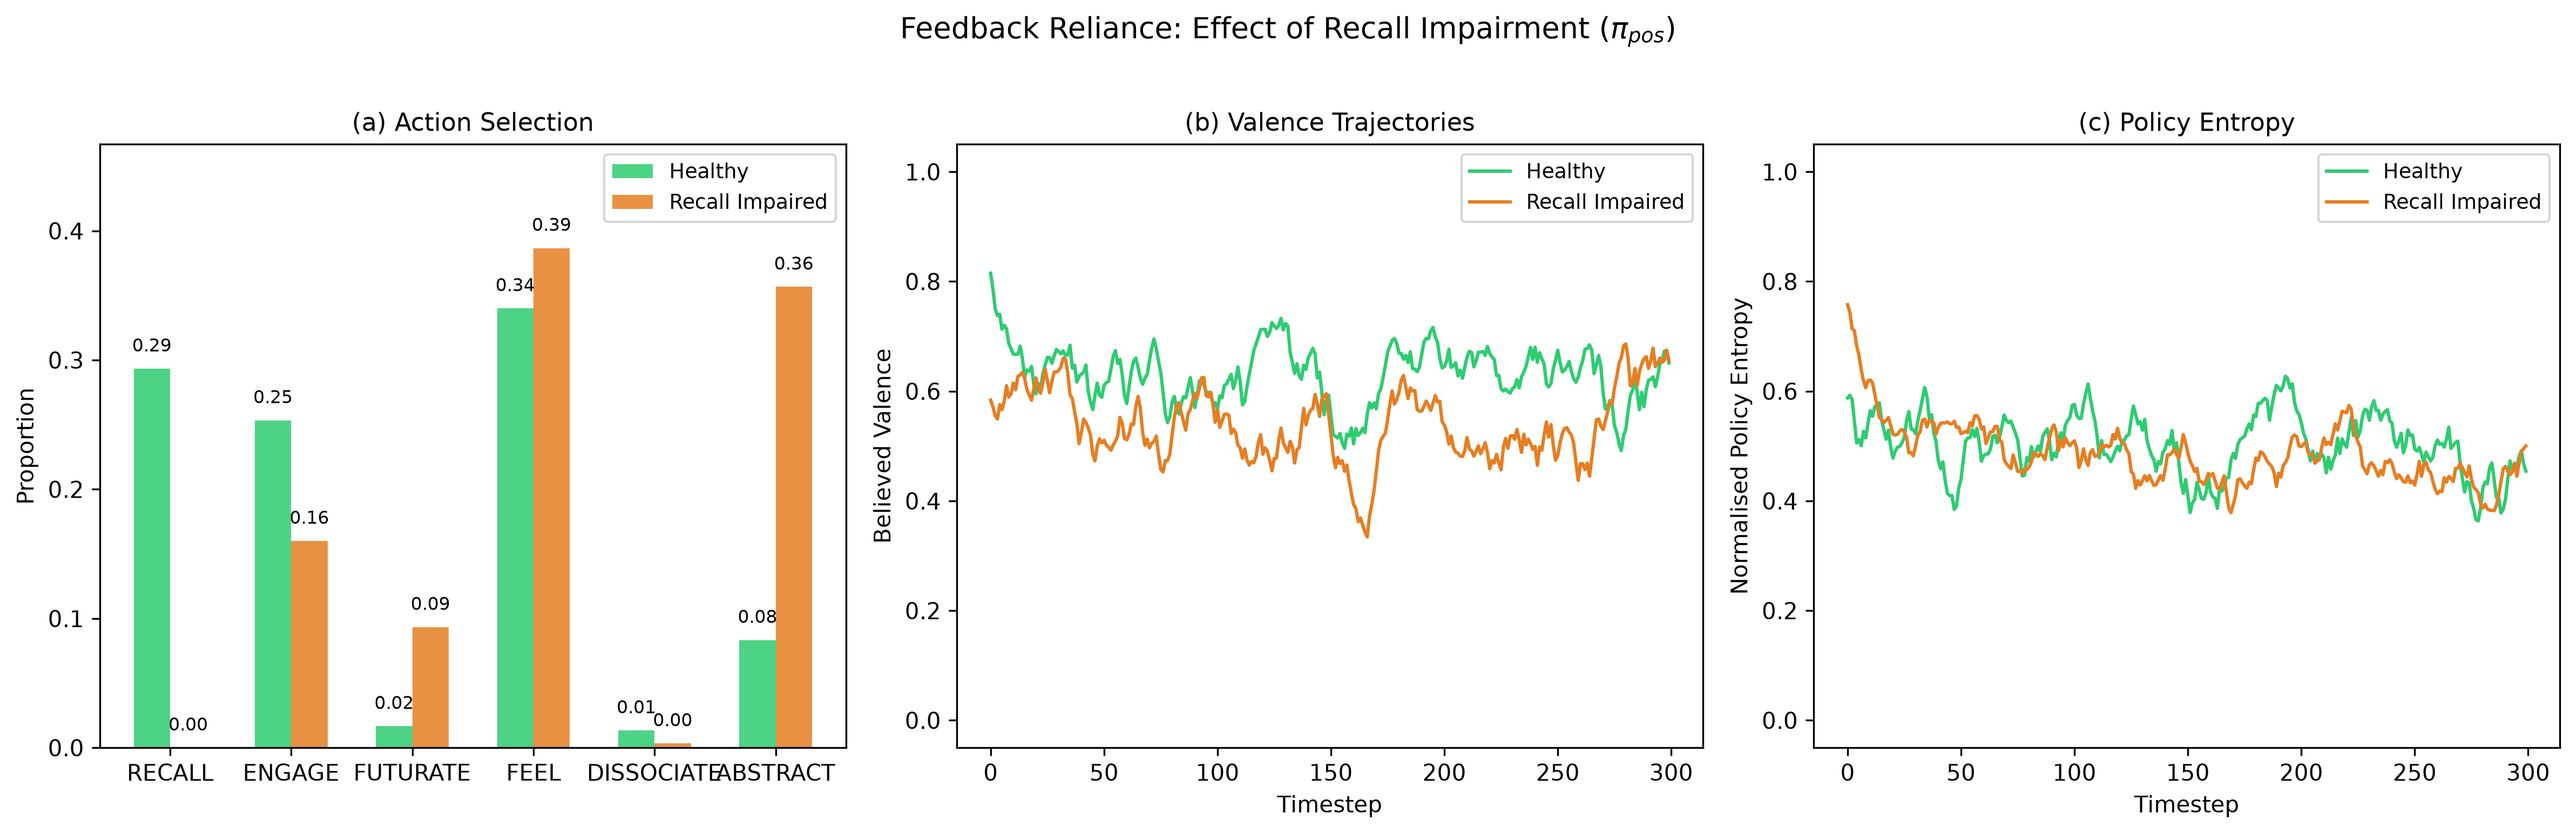
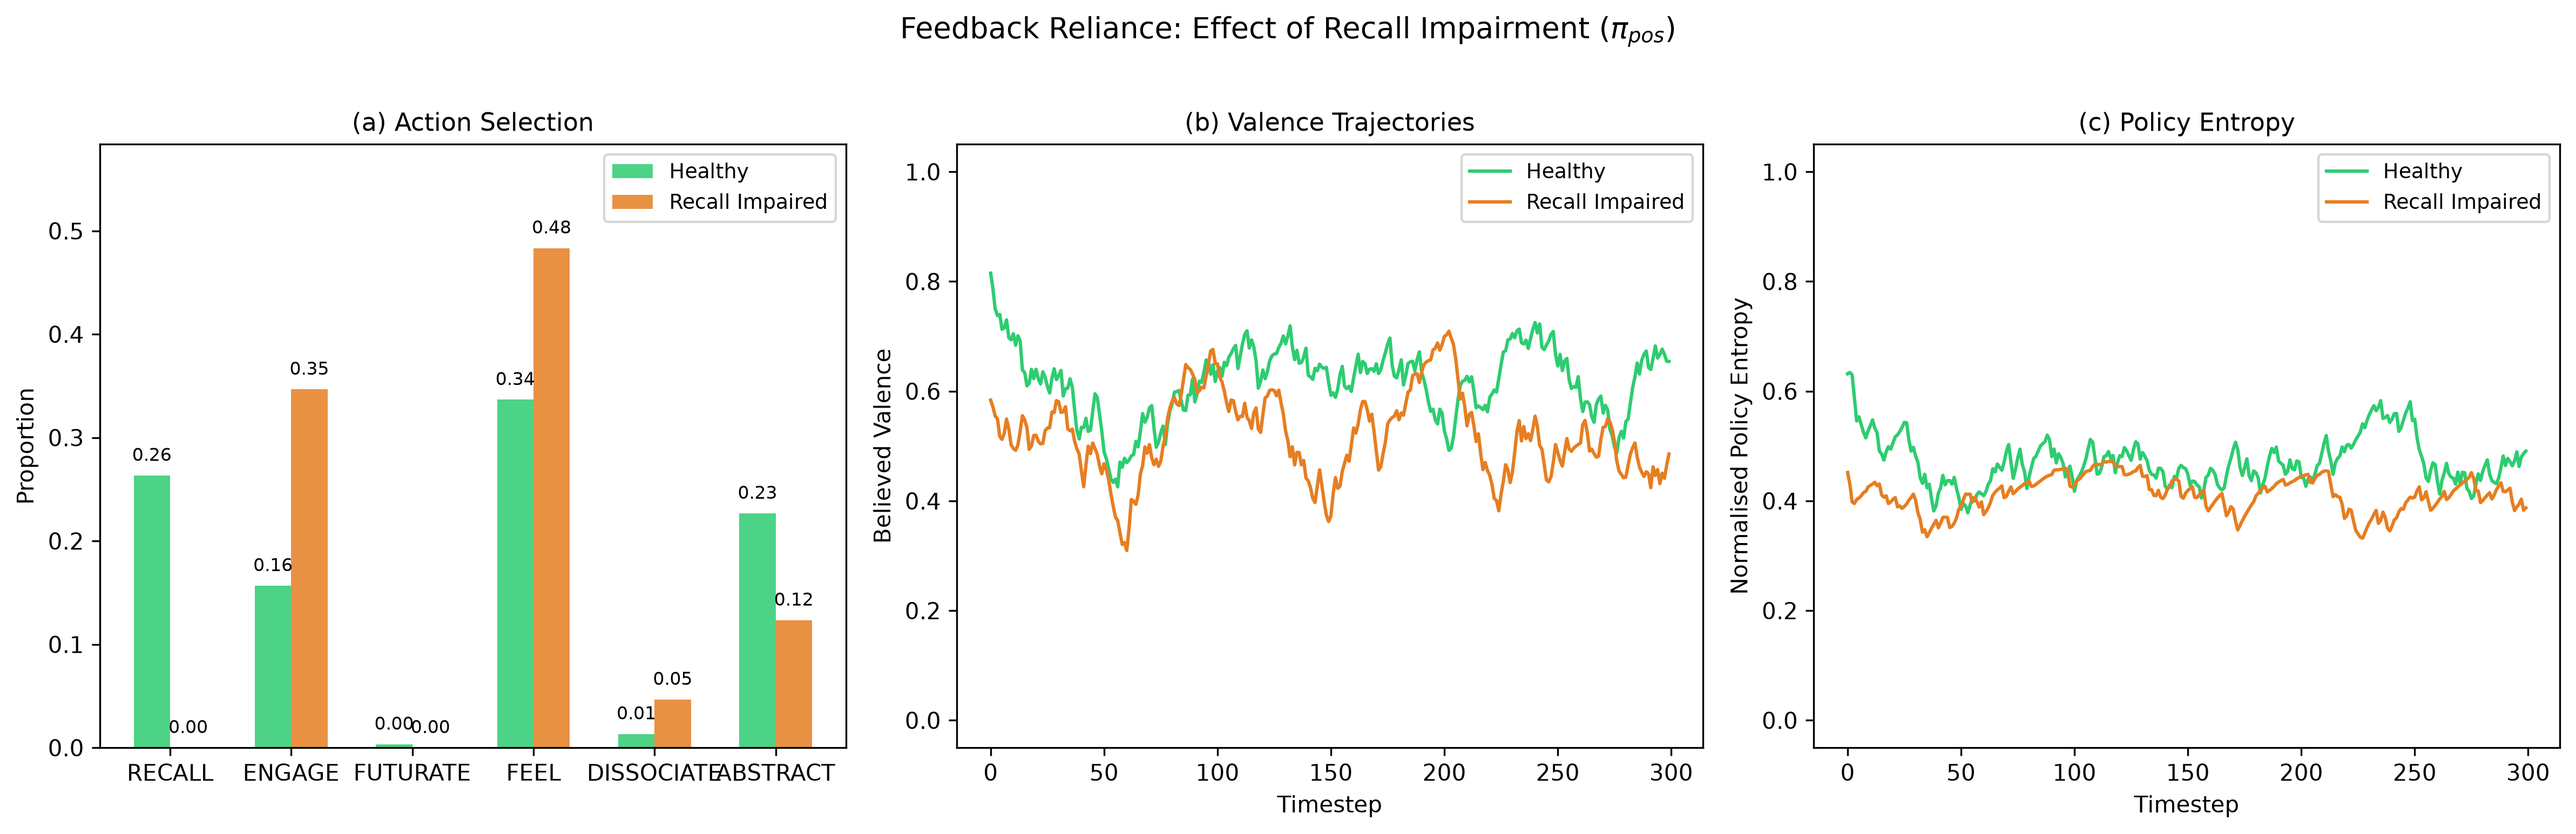
Propagate frame-gating revision to paper + regenerate all figures
Model change (precision-gated FUTURATE/ABSTRACT) merged; full propagation:
- Rewrote ESM ablation: multi-step no longer leans on persistence (model's own
  forward dynamics carry it; Geschwind h2 0.29 / osf h2 0.34 with zero inertia).
- Added direct temporal-orientation test (Mulholland 2023, n=101): RECALL/
  rumination branch validated (past->negative valence, r=-0.23 within-person);
  future-optimism default not supported (motivated the gating change); frame
  inversion fails (coupling not recovery). New references entry + datasets row.
- Softened worry r=0.166 to a coupling (not orientation recovery) claim.
- Updated FUTURATE description, clinical numbers (RECALL 29->26%, chronic-stress
  frame beliefs), ESM table + figure to the revised model's held-out values.
- Regenerated all simulation figures + fig_model_advantage; EMPIRICAL_RECORD updated.
- Compiles clean: 23 pp, 0 undefined cites, 0 bibtex warnings.

diff --git a/affective_valence_temporal_framing_unified.tex b/affective_valence_temporal_framing_unified.tex
@@ -309,8 +309,11 @@ $\pi_{\text{pos}}$ a negative one (rumination). It is the computational realisat
 \item[ENGAGE] assigns $75\%$ to \textsc{present}, maintaining precision on current
 sensory input through perception--action coupling.
 \item[FUTURATE] assigns $90\%$ to \textsc{future} (narrative inertia); $\mathbf
-B_v^{\textsc{futurate}}$ pulls valence toward the solution state, imagining the best
-outcome. Its energy cost brakes it into short reactive planning bursts.
+B_v^{\textsc{futurate}}$ pulls valence toward a \emph{precision-gated} target
+$v_{\text{fut}}=0.2+0.6\alpha$, symmetric with RECALL, so high positive-belief
+precision yields hopeful prospection and low precision yields anxious, worry-type
+prospection rather than fixed optimism. Its energy cost brakes it into short reactive
+planning bursts.
 \item[FEEL] releases frame commitment ($50$--$60\%$ present) and models active
 interoceptive processing, reducing accumulated prediction error through body-state
 monitoring \citep{stephan2016allostatic}.
@@ -484,7 +487,7 @@ constrained by feedback. When $\pi_{\text{pos}}$ is low, RECALL fails at two cou
 levels: the mechanism itself is impaired ($\alpha\!\approx\!0.14$, barely pulling
 toward the prior) and its deployment is suppressed (it becomes EFE-uncompetitive).
 Figure~\ref{fig:feedback} contrasts a healthy and a recall-impaired agent differing
-only in $\pi_{\text{pos}}$: RECALL utilisation collapses from $29\%$ to $<1\%$, with
+only in $\pi_{\text{pos}}$: RECALL utilisation collapses from $26\%$ to $<1\%$, with
 compensatory ABSTRACT, FEEL, ENGAGE, and FUTURATE. This is the computational form of
 overgeneral memory \citep{williams2007autobiographical}: cognition migrates to
 representations that are abstract without being self-congruent.
@@ -505,7 +508,7 @@ monotonic in healthy/high-sensitivity profiles.}
 \centering
 \includegraphics[width=\textwidth]{figures/fig10_feedback_reliance.png}
 \caption{\textbf{Feedback reliance under recall impairment.} Profiles share all
-parameters except $\pi_{\text{pos}}$ (5.0 vs 0.2). (a) RECALL drops from $29\%$ to
+parameters except $\pi_{\text{pos}}$ (5.0 vs 0.2). (a) RECALL drops from $26\%$ to
 $<1\%$, with compensatory ABSTRACT/FEEL/ENGAGE/FUTURATE. (b) Valence trajectories
 lower under impairment. (c) Policy entropy: the impaired agent is less decisive.}
 \label{fig:feedback}
@@ -516,8 +519,8 @@ Chronic stress realises the double bind of \S\ref{sec:regulator}. Affect turns
 negative but construal stays coarse, so neither pathway to policy selection delivers.
 A stressed profile (very high volatility, amplified reward sensitivity, stress-impaired
 interoception, reduced $\pi_{\text{pos}}$) shows future-dominated fixation, dominant
-\textsc{future} frame belief ($0.77$ vs $0.25$ healthy), depleted \textsc{present}
-($0.17$ vs $0.50$), FUTURATE dominance, and strongly negative reward valence from
+\textsc{future} frame belief ($0.66$ vs $0.32$ healthy), depleted \textsc{present}
+($0.25$ vs $0.46$), FUTURATE dominance, and strongly negative reward valence from
 \emph{frustrated forward projection}: FUTURATE creates precise positive predictions
 that a volatile world falsifies (Figure~\ref{fig:stress}). At the mood timescale, the
 M5 layer turns this into an attractor. Two agents with identical healthy initial
@@ -591,6 +594,7 @@ Dataset & $N$ & Signals & Access & Supports \\
 Rutledge GBE happiness \citep{rutledge2014} & 47{,}067 (14{,}803) & gamble choices; momentary happiness & CC0 (Dryad) & subsumption / affect readout \\
 Geschwind--Bringmann ESM \citep{bringmann2013,geschwind2011} & 130 (129) & momentary affect; event pleasantness; worry & CC BY-NC & affect-dynamics; frame-to-worry \\
 Reliability ESM (\texttt{osf.io/83cfk}) & 91 & momentary affect (12 emotion sliders) & open (OSF) & affect-dynamics replication \\
+Temporal-orientation ESM \citep{mulholland2023} & 101 & per-probe past/future thought; valence & CC BY-NC & direct frame-to-affect coupling \\
 Sugawara \& Katahira (complete feedback) & 143 & choices; obtained + foregone outcomes & open (OSF) & counterfactual signature \\
 Palminteri 2017 (complete feedback) & 20 & choices; obtained + foregone outcomes & open (OSF) & counterfactual replication \\
 Reward+punishment reversal (osf.io/2gq96) & 128 (64/64) & learning rates by valence & open (OSF) & general precision deficit \\
@@ -708,13 +712,16 @@ more volatile affect is where the model helps most.
 Component ablations locate the source of the advantage. Driving the model on valence
 alone in the clinical sample changes almost nothing ($R^2=0.20$ at one step), so the
 gain is not the event channel acting as a hidden regressor. Removing the
-persistence-like valence-inertia term costs multi-step accuracy on both samples but
-leaves a clear one-step advantage in the clinical sample ($0.13$ versus $0.09$
-baseline), so the one-step gain there reflects structured affect dynamics beyond
-persistence, while the multi-step margins on the reliability sample lean on
-persistence. We do not claim a head-to-head reimplementation of each predecessor here;
-the claim is that the integrated model outpredicts standard baselines where affect
-carries non-trivial dynamics, and single components are insufficient.
+persistence-like valence-inertia term leaves the advantage largely intact at every
+horizon: on the clinical sample the model still reaches $R^2=0.14$ at one step and
+$0.29$ at two steps with no inertia at all (versus baselines $0.09$ and $0.27$), and on
+the reliability sample $0.46$ and $0.34$ (versus $0.48$ and $0.34$). The model's own
+forward dynamics, not a persistence prior, carry the multi-step prediction. This holds
+because the precision-gated prospection operator (\S\ref{sec:model}) keeps forward
+rollouts calibrated to the agent's actual affective level rather than drifting toward a
+fixed optimistic target. We do not claim a head-to-head reimplementation of each
+predecessor here; the claim is that the integrated model outpredicts standard baselines
+where affect carries non-trivial dynamics, and single components are insufficient.
 
 \begin{table}[htbp]
 \centering\small
@@ -729,18 +736,42 @@ valence alone there.}
 Sample & Predictor & 1 step & 2 steps & 3 steps \\
 \midrule
 Remitted-depression ($n{=}129$) & baseline & 0.089 & 0.274 & 0.097 \\
-\citep{bringmann2013,geschwind2011} & \textbf{full model} & \textbf{0.193} & \textbf{0.302} & \textbf{0.170} \\
+\citep{bringmann2013,geschwind2011} & \textbf{full model} & \textbf{0.194} & \textbf{0.300} & \textbf{0.168} \\
 \midrule
 Reliability ($n{=}91$) & baseline & 0.475 & 0.338 & 0.276 \\
-(\texttt{osf.io/83cfk}) & \textbf{full model} & \textbf{0.486} & \textbf{0.377} & \textbf{0.322} \\
+(\texttt{osf.io/83cfk}) & \textbf{full model} & \textbf{0.485} & \textbf{0.374} & \textbf{0.317} \\
 \bottomrule
 \end{tabular}
 \end{table}
 
 \subsection{Non-circular latent-state validation}
 Driven only by valence and event inputs, the model's posterior \emph{future-frame}
-belief tracks an independently measured worry item it is never shown ($r=0.166$,
-$n=11{,}712$), a symptom-relevant latent state recovered without being supplied.
+belief covaries with an independently measured worry item it is never shown ($r=0.166$,
+$n=11{,}712$). We read this as evidence that the frame belief couples to a
+symptom-relevant affective signal, not that it recovers reported temporal orientation
+as such; the direct orientation test below makes that distinction concrete.
+
+\subsection{Direct temporal-orientation test}\label{sec:orientation}
+The strongest test of the temporal-frame construct uses a dataset that labels the
+orientation of thought itself. In an experience-sampling study with per-probe reports
+of past- and future-directed thought alongside momentary valence
+(\citealp{mulholland2023}; $n=101$, $1{,}458$ probes, CC BY-NC), the model's central
+structural prediction is borne out and one of its default assumptions is not. The
+prediction that past-framing carries negative valence under low positive-belief
+precision (the RECALL/rumination branch) holds directly and within person: reported
+past-orientation covaries negatively with momentary valence
+($r=-0.23$ within person), and the effect attenuates for people with higher trait
+positivity ($\beta_{\text{past}\times\text{trait}}=+0.06$), the direction the
+precision-gated coupling predicts. The default that \emph{future}-framing is optimistic
+is not supported: future-orientation is mildly negative in this unselected sample
+($r=-0.07$), which is what motivated the precision-gated FUTURATE operator of
+\S\ref{sec:model} (worry-type prospection under low precision) in place of fixed
+optimism. Two honest limits. The gating attenuates but does not reverse the negativity
+of past-framing, so the strong ``rumination flips to positive narrative
+stabilisation'' reading is an overstatement of a real but weaker effect. And the
+model's latent frame, driven on affect alone, does not \emph{recover} reported
+orientation ($r\!\approx\!0$): orientation is exogenous context the model is not given,
+so the validated claim is a frame-to-affect coupling, not affect-to-frame inversion.
 
 \subsection{Emotion-space calibration (circumplex)}
 As a calibration check that the generative model spans affective space, we placed ten
@@ -856,9 +887,13 @@ categorical, not yet a continuous depth; the E-vector is fixed and not yet learn
 co-regulation \citep{hinrichs2025temporal} left to future work. Empirically, the
 per-channel head-to-head is on one dataset (Rutledge) and awaits replication; the
 affect-dynamics advantage replicates across two ESM samples but with sample-dependent
-margins, and its multi-step component leans on valence persistence; a direct
-temporal-orientation experience-sampling dataset with per-beep past/present/future
-labels remains the most valuable missing test of the framework's core mechanism.
+margins. The direct temporal-orientation test (\S\ref{sec:orientation}) validates the
+frame-to-affect coupling but also shows its two current limits: the model does not
+invert reported orientation from affect alone (it is not given orientation-carrying
+input), and precision gating attenuates rather than reverses the negativity of
+past-framing. Grounding the frame in an orientation-carrying observation channel, so
+the latent frame can be tested for recovery and not only coupling, is the most valuable
+next step.
 
 \bibliographystyle{plainnat}
 \bibliography{references}

diff --git a/make_paper_figures.py b/make_paper_figures.py
@@ -64,11 +64,11 @@ def fig_model_advantage():
                   fontsize=10.5, loc="left")
 
     # --- Panels B, C: ESM affect-dynamics on two independent samples ---
-    _esm_panel(axB, "B", "Extension: remitted-depression ESM\n(Geschwind–Bringmann, n=129)",
-               [0.089, 0.274, 0.097], [0.193, 0.302, 0.170])
+    _esm_panel(axB, "B", "Extension: remitted-depression ESM\n(Geschwind-Bringmann, n=129)",
+               [0.089, 0.274, 0.097], [0.194, 0.300, 0.168])
     axB.text(-0.44, 0.235, "2.2x", ha="left", color=VERM, fontsize=11, fontweight="bold")
     _esm_panel(axC, "C", "Replication: reliability ESM\n(osf.io/83cfk, n=91)",
-               [0.475, 0.338, 0.276], [0.486, 0.377, 0.322])
+               [0.475, 0.338, 0.276], [0.485, 0.374, 0.317])
 
     fig.suptitle("Subsumes standard reward-affect models (A); the affect-dynamics advantage is real "
                  "but sample-dependent: large where affect carries dynamics (B), near parity where "

diff --git a/EMPIRICAL_RECORD.md b/EMPIRICAL_RECORD.md
@@ -297,3 +297,35 @@ ESM = beat.
 3. **Mechanism probes:** note explicitly that asymmetry and counterfactual depth
    are not testable by passive ESM valence prediction (probe–mechanism mismatch),
    motivating future choice-based tasks.
+
+## 2a-bis. Direct temporal-orientation test + model revision (2026-07-17)
+
+**Dataset:** Mulholland et al. 2023, Consciousness & Cognition (Mendeley
+10.17632/zpmm72bg6s.1, CC BY-NC). N=101, 1,458 per-probe mDES rows with per-beep
+past/future thought intensity + valence. `temporal_orientation_test.py`.
+
+**Findings (current model):**
+- RECALL/rumination branch VALIDATED: reported past-orientation ~ valence
+  r=-0.224 pooled, -0.234 within-person. Interaction with trait positivity (pi_pos
+  proxy) directionally correct (b=+0.06) but weak; low-mood past-slope -0.224,
+  high-mood -0.144 -> attenuation, NOT sign-flip.
+- FUTURATE default optimism NOT supported: future-orientation ~ valence r=-0.065
+  (mildly negative in unselected sample).
+- Frame INVERSION fails: model's latent frame belief driven on valence does NOT
+  recover reported orientation (r~=0). Filtered and predicted frame both null.
+  Orientation is exogenous context the model isn't given; validated claim is
+  frame->affect COUPLING, not affect->frame recovery.
+
+**Model revision (committed):** precision-gate FUTURATE and ABSTRACT symmetrically
+with RECALL (v_fut = 0.2 + 0.6*alpha). Motivated by future-negative finding.
+
+**Effect (held out, branch merged to master):**
+- Rutledge subsumption unchanged (0.144).
+- ESM full model ~unchanged: Geschwind 0.194/0.300/0.168, osf_83cfk 0.485/0.374/0.317.
+- ESM NO-INERTIA ablation greatly improved (model's own forward dynamics now carry
+  multi-step, not persistence): Geschwind h1/h2 0.14/0.29 (was 0.13/0.007),
+  osf h1/h2 0.46/0.34 (was 0.45/0.107). This retires the "multi-step leans on
+  persistence" caveat.
+- PAD circumplex still 10/10; anger/fear dominance split preserved.
+- Clinical numbers shifted: RECALL 29%->26%; chronic-stress future 0.77->0.66,
+  present 0.17->0.25 (paper updated, figures regenerated).
